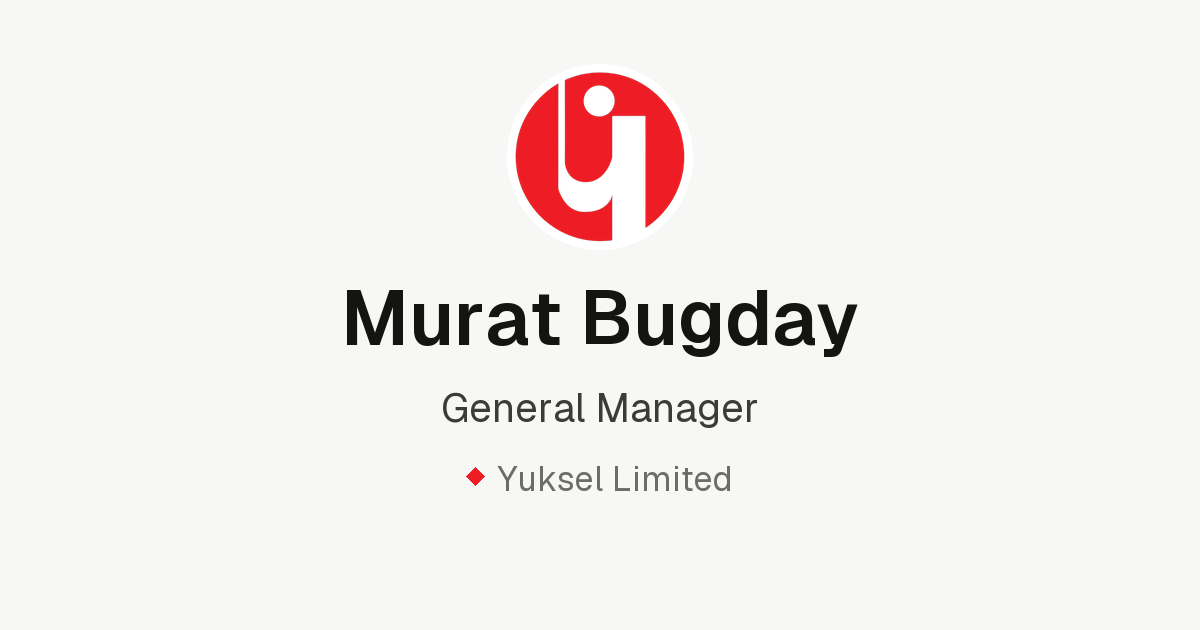
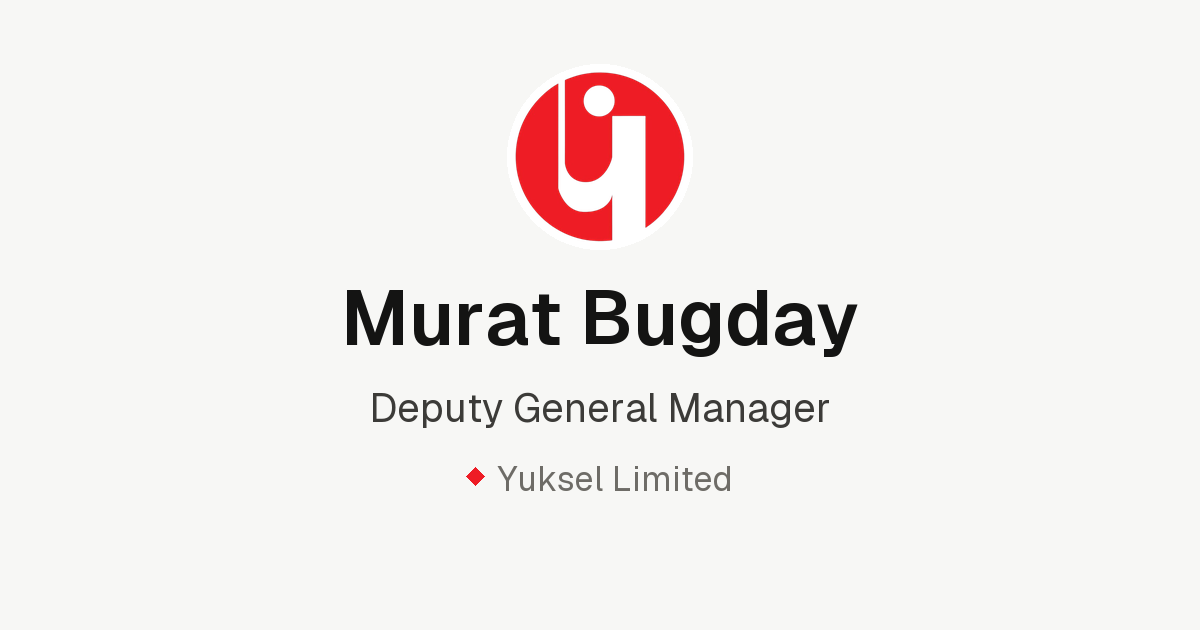
Update title to Deputy General Manager and phone to mobile +966 50 527 4466

Changed region(s): [[0.3083, 0.6032, 0.7092, 0.6937]]

diff --git a/ltd/index.html b/ltd/index.html
@@ -6,9 +6,9 @@
 <!-- This page lives in /ltd/; every relative link (assets, vCard) resolves from the site root. -->
 <base href="../">
 <title>Murat Bugday · Yuksel Limited</title>
-<meta name="description" content="Murat Bugday — General Manager, Yuksel Limited. Call, email or save contact.">
+<meta name="description" content="Murat Bugday — Deputy General Manager, Yuksel Limited. Call, email or save contact.">
 <meta property="og:title" content="Murat Bugday">
-<meta property="og:description" content="General Manager · Yuksel Limited">
+<meta property="og:description" content="Deputy General Manager · Yuksel Limited">
 <meta property="og:url" content="https://muratbugday.yukselsaudia.com.sa/ltd/">
 <meta property="og:image" content="https://muratbugday.yukselsaudia.com.sa/assets/og-ltd.png">
 <meta property="og:image:width" content="1200">
@@ -329,9 +329,9 @@
       l.alt = "Yuksel Limited logo";
     </script>
     <h1 class="pre" style="--i:0">Murat Bugday</h1>
-    <p class="sub pre" style="--i:1">General Manager</p>
+    <p class="sub pre" style="--i:1">Deputy General Manager</p>
     <nav class="actions pre" style="--i:2" aria-label="Quick actions">
-      <a class="action" href="tel:+966112931000" data-ripple="light">
+      <a class="action" href="tel:+966505274466" data-ripple="light">
         <svg viewBox="0 0 24 24" width="20" height="20" aria-hidden="true"><path d="M6.62 10.79c1.44 2.83 3.76 5.14 6.59 6.59l2.2-2.2c.27-.27.67-.36 1.02-.24 1.12.37 2.33.57 3.57.57.55 0 1 .45 1 1V20c0 .55-.45 1-1 1-9.39 0-17-7.61-17-17 0-.55.45-1 1-1h3.5c.55 0 1 .45 1 1 0 1.25.2 2.45.57 3.57.11.35.03.74-.25 1.02l-2.2 2.2z"/></svg>
         Call
       </a>
@@ -343,9 +343,9 @@
   </header>
 
   <section class="details" aria-label="Contact details">
-    <a class="row pre" style="--i:3" href="tel:+966112931000" data-ripple>
+    <a class="row pre" style="--i:3" href="tel:+966505274466" data-ripple>
       <svg viewBox="0 0 24 24" aria-hidden="true"><path d="M6.62 10.79c1.44 2.83 3.76 5.14 6.59 6.59l2.2-2.2c.27-.27.67-.36 1.02-.24 1.12.37 2.33.57 3.57.57.55 0 1 .45 1 1V20c0 .55-.45 1-1 1-9.39 0-17-7.61-17-17 0-.55.45-1 1-1h3.5c.55 0 1 .45 1 1 0 1.25.2 2.45.57 3.57.11.35.03.74-.25 1.02l-2.2 2.2z"/></svg>
-      <span class="meta"><b>+966 11 293 1000</b><small>Work</small></span>
+      <span class="meta"><b>+966 50 527 4466</b><small>Mobile</small></span>
     </a>
     <a class="row pre" style="--i:4" href="mailto:mbugday@yuksel.net" data-ripple>
       <svg viewBox="0 0 24 24" aria-hidden="true"><path d="M20 4H4c-1.1 0-1.99.9-1.99 2L2 18c0 1.1.9 2 2 2h16c1.1 0 2-.9 2-2V6c0-1.1-.9-2-2-2zm0 4-8 5-8-5V6l8 5 8-5v2z"/></svg>
@@ -353,7 +353,7 @@
     </a>
     <div class="row pre" style="--i:5">
       <svg viewBox="0 0 24 24" aria-hidden="true"><path d="M20 6h-4V4c0-1.11-.89-2-2-2h-4c-1.11 0-2 .89-2 2v2H4c-1.11 0-1.99.89-1.99 2L2 19c0 1.11.89 2 2 2h16c1.11 0 2-.89 2-2V8c0-1.11-.89-2-2-2zm-6 0h-4V4h4v2z"/></svg>
-      <span class="meta"><b>Yuksel Limited</b><small>General Manager</small></span>
+      <span class="meta"><b>Yuksel Limited</b><small>Deputy General Manager</small></span>
     </div>
     <a class="row pre" style="--i:6" href="https://www.yukselsaudia.com" target="_blank" rel="noopener" data-ripple>
       <svg viewBox="0 0 24 24" aria-hidden="true"><path d="M12 2C6.48 2 2 6.48 2 12s4.48 10 10 10 10-4.48 10-10S17.52 2 12 2zm-1 17.93c-3.95-.49-7-3.85-7-7.93 0-.62.08-1.21.21-1.79L9 15v1c0 1.1.9 2 2 2v1.93zm6.9-2.54c-.26-.81-1-1.39-1.9-1.39h-1v-3c0-.55-.45-1-1-1H8v-2h2c.55 0 1-.45 1-1V7h2c1.1 0 2-.9 2-2v-.41c2.93 1.19 5 4.06 5 7.41 0 2.08-.8 3.97-2.1 5.39z"/></svg>

diff --git a/sa/index.html b/sa/index.html
@@ -6,9 +6,9 @@
 <!-- This page lives in /sa/; every relative link (assets, vCard) resolves from the site root. -->
 <base href="../">
 <title>Murat Bugday · Yuksel Saudia</title>
-<meta name="description" content="Murat Bugday — General Manager, Yuksel Saudia. Call, email or save contact.">
+<meta name="description" content="Murat Bugday — Deputy General Manager, Yuksel Saudia. Call, email or save contact.">
 <meta property="og:title" content="Murat Bugday">
-<meta property="og:description" content="General Manager · Yuksel Saudia">
+<meta property="og:description" content="Deputy General Manager · Yuksel Saudia">
 <meta property="og:url" content="https://muratbugday.yukselsaudia.com.sa/sa/">
 <meta property="og:image" content="https://muratbugday.yukselsaudia.com.sa/assets/og-sa.png">
 <meta property="og:image:width" content="1200">
@@ -329,9 +329,9 @@
       l.alt = "Yuksel Saudia logo";
     </script>
     <h1 class="pre" style="--i:0">Murat Bugday</h1>
-    <p class="sub pre" style="--i:1">General Manager</p>
+    <p class="sub pre" style="--i:1">Deputy General Manager</p>
     <nav class="actions pre" style="--i:2" aria-label="Quick actions">
-      <a class="action" href="tel:+966112931000" data-ripple="light">
+      <a class="action" href="tel:+966505274466" data-ripple="light">
         <svg viewBox="0 0 24 24" width="20" height="20" aria-hidden="true"><path d="M6.62 10.79c1.44 2.83 3.76 5.14 6.59 6.59l2.2-2.2c.27-.27.67-.36 1.02-.24 1.12.37 2.33.57 3.57.57.55 0 1 .45 1 1V20c0 .55-.45 1-1 1-9.39 0-17-7.61-17-17 0-.55.45-1 1-1h3.5c.55 0 1 .45 1 1 0 1.25.2 2.45.57 3.57.11.35.03.74-.25 1.02l-2.2 2.2z"/></svg>
         Call
       </a>
@@ -343,9 +343,9 @@
   </header>
 
   <section class="details" aria-label="Contact details">
-    <a class="row pre" style="--i:3" href="tel:+966112931000" data-ripple>
+    <a class="row pre" style="--i:3" href="tel:+966505274466" data-ripple>
       <svg viewBox="0 0 24 24" aria-hidden="true"><path d="M6.62 10.79c1.44 2.83 3.76 5.14 6.59 6.59l2.2-2.2c.27-.27.67-.36 1.02-.24 1.12.37 2.33.57 3.57.57.55 0 1 .45 1 1V20c0 .55-.45 1-1 1-9.39 0-17-7.61-17-17 0-.55.45-1 1-1h3.5c.55 0 1 .45 1 1 0 1.25.2 2.45.57 3.57.11.35.03.74-.25 1.02l-2.2 2.2z"/></svg>
-      <span class="meta"><b>+966 11 293 1000</b><small>Work</small></span>
+      <span class="meta"><b>+966 50 527 4466</b><small>Mobile</small></span>
     </a>
     <a class="row pre" style="--i:4" href="mailto:mbugday@yuksel.net" data-ripple>
       <svg viewBox="0 0 24 24" aria-hidden="true"><path d="M20 4H4c-1.1 0-1.99.9-1.99 2L2 18c0 1.1.9 2 2 2h16c1.1 0 2-.9 2-2V6c0-1.1-.9-2-2-2zm0 4-8 5-8-5V6l8 5 8-5v2z"/></svg>
@@ -353,7 +353,7 @@
     </a>
     <div class="row pre" style="--i:5">
       <svg viewBox="0 0 24 24" aria-hidden="true"><path d="M20 6h-4V4c0-1.11-.89-2-2-2h-4c-1.11 0-2 .89-2 2v2H4c-1.11 0-1.99.89-1.99 2L2 19c0 1.11.89 2 2 2h16c1.11 0 2-.89 2-2V8c0-1.11-.89-2-2-2zm-6 0h-4V4h4v2z"/></svg>
-      <span class="meta"><b>Yuksel Saudia</b><small>General Manager</small></span>
+      <span class="meta"><b>Yuksel Saudia</b><small>Deputy General Manager</small></span>
     </div>
     <a class="row pre" style="--i:6" href="https://www.yukselsaudia.com" target="_blank" rel="noopener" data-ripple>
       <svg viewBox="0 0 24 24" aria-hidden="true"><path d="M12 2C6.48 2 2 6.48 2 12s4.48 10 10 10 10-4.48 10-10S17.52 2 12 2zm-1 17.93c-3.95-.49-7-3.85-7-7.93 0-.62.08-1.21.21-1.79L9 15v1c0 1.1.9 2 2 2v1.93zm6.9-2.54c-.26-.81-1-1.39-1.9-1.39h-1v-3c0-.55-.45-1-1-1H8v-2h2c.55 0 1-.45 1-1V7h2c1.1 0 2-.9 2-2v-.41c2.93 1.19 5 4.06 5 7.41 0 2.08-.8 3.97-2.1 5.39z"/></svg>

diff --git a/index.html b/index.html
@@ -3,9 +3,9 @@
 <head>
 <meta charset="utf-8">
 <meta name="viewport" content="width=device-width, initial-scale=1">
-<title>Murat Bugday · General Manager</title>
+<title>Murat Bugday · Deputy General Manager</title>
 <meta property="og:title" content="Murat Bugday">
-<meta property="og:description" content="General Manager · Yuksel">
+<meta property="og:description" content="Deputy General Manager · Yuksel">
 <meta property="og:image" content="https://muratbugday.yukselsaudia.com.sa/assets/og-root.png">
 <meta property="og:image:width" content="1200">
 <meta property="og:image:height" content="630">
